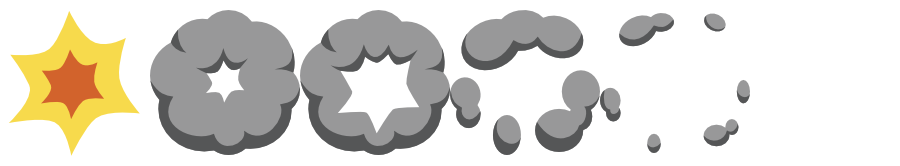
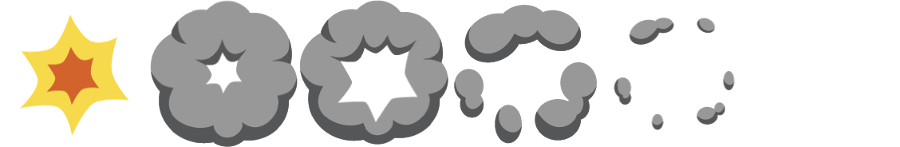
Corregidos bugs de lineas blancas entre sprites y de lineas residuos en explosiones

diff --git a/ProtectTheTown/src/com/lucianosimo/protectthetown/manager/ResourcesManager.java b/ProtectTheTown/src/com/lucianosimo/protectthetown/manager/ResourcesManager.java
@@ -93,6 +93,7 @@ public class ResourcesManager {
 	
 	//Platforms
 	public ITextureRegion game_floor_region;
+	public ITextureRegion game_floor_back_region;
 	public ITextureRegion game_earth_region;
 	public ITextureRegion game_base_floor_region;
 	
@@ -269,6 +270,7 @@ public class ResourcesManager {
 		game_base_floor_region = BitmapTextureAtlasTextureRegionFactory.createFromAsset(gameTextureAtlas, activity, "game_base_floor.png");
 		game_earth_region = BitmapTextureAtlasTextureRegionFactory.createFromAsset(gameTextureAtlas, activity, "game_earth.png");
 		game_floor_region = BitmapTextureAtlasTextureRegionFactory.createFromAsset(gameTextureAtlas, activity, "game_floor.png");
+		game_floor_back_region = BitmapTextureAtlasTextureRegionFactory.createFromAsset(gameTextureAtlas, activity, "game_floor_back.png");
 		
 		game_over_window_region = BitmapTextureAtlasTextureRegionFactory.createFromAsset(gameWindowsTextureAtlas, activity, "game_over_window.png");
 		game_pause_window_region = BitmapTextureAtlasTextureRegionFactory.createFromAsset(gameWindowsTextureAtlas, activity, "game_pause_window.png");

diff --git a/ProtectTheTown/src/com/lucianosimo/protectthetown/scene/GameScene.java b/ProtectTheTown/src/com/lucianosimo/protectthetown/scene/GameScene.java
@@ -1044,7 +1044,9 @@ public class GameScene extends BaseScene{
 		for (int i = 0; i < 8; i++) {
 			elevation = rand.nextInt(5) + 1;
 			floor[i] = new Floor(floor_positions[i], 200, vbom, camera, physicsWorld);
+			Sprite floor_back = new Sprite(80, 25, resourcesManager.game_floor_back_region, vbom);
 			floor[i].setCullingEnabled(true);
+			floor[i].attachChild(floor_back);
 			GameScene.this.attachChild(floor[i]);
 			if (elevation == 2) {
 				Earth earth = new Earth(floor_positions[i], 50, vbom, camera, physicsWorld);
